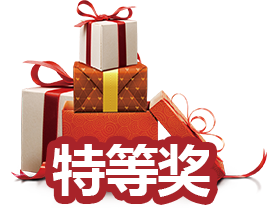
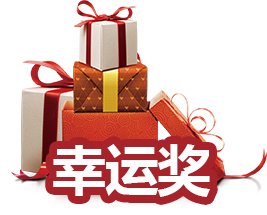
[fix] 没有人员的时候，返回错误，图片修改

Changed region(s): [[0.1498, 0.614, 0.5993, 0.9488], [0.4195, 0.614, 0.4794, 0.6419]]

diff --git a/src/main/resources/static/demo.html b/src/main/resources/static/demo.html
@@ -36,7 +36,7 @@
  
 <script>
 
-    var list = [ {name:'三等奖',img:'jp3.png'},{name:'二等奖',img:'jp2.png'},{name:'一等奖',img:'jp1.png'},{name:'特等奖',img:'jpt.png'} ];
+    var list = [ {name:'幸运奖',img:'jpt.png'},{name:'三等奖',img:'jp3.png'},{name:'二等奖',img:'jp2.png'},{name:'一等奖',img:'jp1.png'}];
     var index = 0;
     
     function getType(a){ 
@@ -94,17 +94,45 @@
         if(times && times > 0){
             $(".num font").html(times);
             if(times == 1){
-                $.get("/lucky",function(res){
-                    html = '<div class="info">'+ res.name +'（' + res.tel +'）</div>';
-                    $(".list").append(html);
-                }); 
+                // $.get("/lucky",function(res,status){ 
+                //     if(res.success){
+                //         html = '<div class="info">'+ res.name +'（' + res.tel +'）</div>';
+                //         $(".list").append(html);
+                //     }else{
+                //         alert("暂无人员");
+                //     } 
+                // }); 
+                $.ajax({
+                    url:"/lucky",
+                    success:function(){
+                        html = '<div class="info">'+ res.name +'（' + res.tel +'）</div>';
+                        $(".list").append(html);
+                    },
+                    error:function(){
+                        alert("暂无人员");
+                    },
+                });
             }else{
                 for(var i = 0; i < times; i ++) {   
                     window.setTimeout(function () { 
-                        $.get("/lucky",function(res){
-                            html = '<div class="info1">'+ res.name +'（' + res.tel +'）</div>'; 
-                            $(".list").append(html);
-                        }); 
+                        // $.get("/lucky",function(res){
+                        //     if(res.success){
+                        //         html = '<div class="info1">'+ res.name +'（' + res.tel +'）</div>'; 
+                        //         $(".list").append(html);
+                        //     }else{
+                        //         alert("暂无人员");
+                        //     }  
+                        // }); 
+                        $.ajax({
+                            url:"/lucky",
+                            success:function(){
+                                html = '<div class="info1">'+ res.name +'（' + res.tel +'）</div>';
+                                $(".list").append(html);
+                            },
+                            error:function(){
+                                alert("暂无人员");
+                            },
+                        });
                     },1000 * i); 
                 } 
             } 
